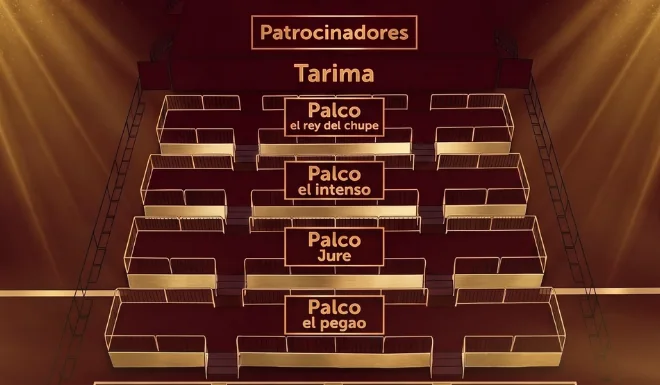
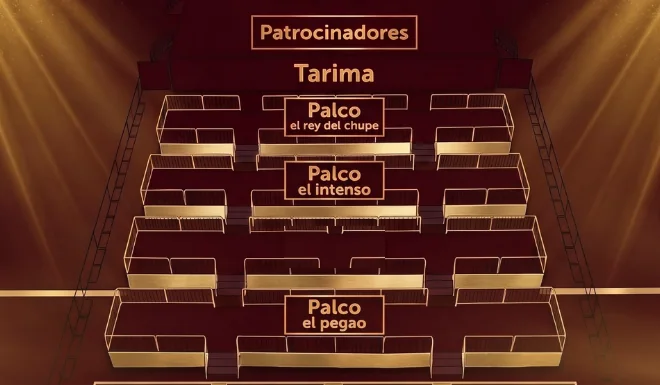
Landing Rasca: intro fluida (video nativo; el fuego toma un solo cuadro) y fuera Jure de planos, mapa y textos
Claude-Session: https://claude.ai/code/session_019Nk8Tj4AdvadvNBYBnkwa6

Changed region(s): [[0.4242, 0.561, 0.6061, 0.7169]]

diff --git a/index.html b/index.html
@@ -161,8 +161,6 @@ section{position:relative}
 .plano .tarima{fill:rgba(244,239,230,.55)}
 .plano .publico{fill:rgba(244,239,230,.08)}
 .plano .tramo{fill:none;stroke:rgba(244,239,230,.28);stroke-width:1}
-.plano .jure{stroke-dasharray:2 2}
-.plano .jure-t{font-size:5.2px;fill:rgba(244,239,230,.6);letter-spacing:.1em}
 .plano .activa{fill:var(--oro);stroke:none}
 .plano text{font:800 7px "Archivo",sans-serif;fill:rgba(26,11,11,.9);letter-spacing:.06em}
 .palco__nombre{margin-top:12px;font-size:var(--t2)}
@@ -448,15 +446,15 @@ dialog video{width:100%;height:100%;object-fit:contain}
     <p class="palcos__leyenda" id="leyenda-pabellon">Ilustración del montaje proyectado para el 5 de diciembre.</p>
     <div class="cabeza"><svg class="rombos" aria-hidden="true"><use href="#rombos"/></svg><p class="rol">Palco cubierto · 10 sillas</p><h2 class="rotulo" id="t-palcos">Frente a la tarima.</h2><p class="bajada"><b>Diez sillas para tu grupo</b>, bajo techo y de frente al show. Licor y comida se compran adentro y se pagan aparte.</p><p class="palcos__faltan">24 palcos por categoría · faltan <b id="faltan">57</b> días</p></div>
     <figure class="marco mapa">
-      <a class="mapa__zoom" href="assets/mapa-palcos-660.webp" target="_blank" rel="noopener" aria-label="Ver el mapa de localidades en grande"><picture><source type="image/avif" srcset="assets/mapa-palcos-660.avif"><img src="assets/mapa-palcos-660.webp" width="660" height="385" alt="Mapa oficial de localidades: la tarima y, de frente, los palcos El Rey del Chupe, El Intenso, Jure y El Pegao." loading="lazy"></picture></a>
-      <figcaption>Mapa oficial · toca para ampliar.<br>El palco Jure no está a la venta.</figcaption>
+      <a class="mapa__zoom" href="assets/mapa-palcos-660.webp" target="_blank" rel="noopener" aria-label="Ver el mapa de localidades en grande"><picture><source type="image/avif" srcset="assets/mapa-palcos-660.avif"><img src="assets/mapa-palcos-660.webp" width="660" height="385" alt="Mapa oficial de localidades: la tarima y, de frente, las filas de palcos El Rey del Chupe, El Intenso y El Pegao." loading="lazy"></picture></a>
+      <figcaption>Mapa oficial · toca para ampliar.</figcaption>
     </figure>
     <div class="palcos__lista">
       <article class="palco marco palco--rey" data-fila="1" aria-labelledby="p-reyDelChupe"><span class="palco__rombo" aria-hidden="true"><svg viewBox="0 0 132 12"><use href="#rombos"/></svg></span><span class="palco__abajo" aria-hidden="true"></span>
         <p class="palco__fila">Fila 1 de 4</p>
         <h3 class="rotulo palco__nombre" id="p-reyDelChupe">El Rey del Chupe</h3>
         <p class="palco__cerca">La primera fila desde la tarima.</p>
-        <div class="palco__plano"><svg class="plano" viewBox="0 0 120 96" role="img" aria-label="Plano: El Rey del Chupe está en la fila 1 de 4 desde la tarima."><rect class="tarima" x="10" y="2" width="100" height="8" rx="1"/><text x="60" y="8.4" text-anchor="middle">TARIMA</text><rect class="tramo activa" x="22.0" y="22" width="22.7" height="10" rx="1"/><rect class="tramo activa" x="48.7" y="22" width="22.7" height="10" rx="1"/><rect class="tramo activa" x="75.3" y="22" width="22.7" height="10" rx="1"/><rect class="tramo" x="18.0" y="38" width="25.3" height="10" rx="1"/><rect class="tramo" x="47.3" y="38" width="25.3" height="10" rx="1"/><rect class="tramo" x="76.7" y="38" width="25.3" height="10" rx="1"/><rect class="tramo jure" x="14" y="54" width="92" height="10" rx="1"/><text class="jure-t" x="60" y="61" text-anchor="middle">JURE · NO SE VENDE</text><rect class="tramo" x="10.0" y="70" width="30.7" height="10" rx="1"/><rect class="tramo" x="44.7" y="70" width="30.7" height="10" rx="1"/><rect class="tramo" x="79.3" y="70" width="30.7" height="10" rx="1"/><rect class="publico" x="6" y="86" width="108" height="8" rx="1"/></svg></div>
+        <div class="palco__plano"><svg class="plano" viewBox="0 0 120 96" role="img" aria-label="Plano: El Rey del Chupe está en la fila 1 de 4 desde la tarima."><rect class="tarima" x="10" y="2" width="100" height="8" rx="1"/><text x="60" y="8.4" text-anchor="middle">TARIMA</text><rect class="tramo activa" x="22.0" y="22" width="22.7" height="10" rx="1"/><rect class="tramo activa" x="48.7" y="22" width="22.7" height="10" rx="1"/><rect class="tramo activa" x="75.3" y="22" width="22.7" height="10" rx="1"/><rect class="tramo" x="18.0" y="38" width="25.3" height="10" rx="1"/><rect class="tramo" x="47.3" y="38" width="25.3" height="10" rx="1"/><rect class="tramo" x="76.7" y="38" width="25.3" height="10" rx="1"/><rect class="tramo" x="14.0" y="54" width="28.0" height="10" rx="1"/><rect class="tramo" x="46.0" y="54" width="28.0" height="10" rx="1"/><rect class="tramo" x="78.0" y="54" width="28.0" height="10" rx="1"/><rect class="tramo" x="10.0" y="70" width="30.7" height="10" rx="1"/><rect class="tramo" x="44.7" y="70" width="30.7" height="10" rx="1"/><rect class="tramo" x="79.3" y="70" width="30.7" height="10" rx="1"/><rect class="publico" x="6" y="86" width="108" height="8" rx="1"/></svg></div>
         <p class="palco__precio"><span class="precio" data-precio="reyDelChupe"></span><small>por palco · 10 sillas</small></p>
         <p class="palco__anticipo">Lo <span data-anticipo="reyDelChupe"></span> (30%)</p>
         <p class="palco__persona">≈ <span data-persona="reyDelChupe"></span> por persona</p>
@@ -467,7 +465,7 @@ dialog video{width:100%;height:100%;object-fit:contain}
         <p class="palco__fila">Fila 2 de 4</p>
         <h3 class="rotulo palco__nombre" id="p-elIntenso">El Intenso</h3>
         <p class="palco__cerca">Segunda fila, justo detrás de El Rey del Chupe.</p>
-        <div class="palco__plano"><svg class="plano" viewBox="0 0 120 96" role="img" aria-label="Plano: El Intenso está en la fila 2 de 4 desde la tarima."><rect class="tarima" x="10" y="2" width="100" height="8" rx="1"/><text x="60" y="8.4" text-anchor="middle">TARIMA</text><rect class="tramo" x="22.0" y="22" width="22.7" height="10" rx="1"/><rect class="tramo" x="48.7" y="22" width="22.7" height="10" rx="1"/><rect class="tramo" x="75.3" y="22" width="22.7" height="10" rx="1"/><rect class="tramo activa" x="18.0" y="38" width="25.3" height="10" rx="1"/><rect class="tramo activa" x="47.3" y="38" width="25.3" height="10" rx="1"/><rect class="tramo activa" x="76.7" y="38" width="25.3" height="10" rx="1"/><rect class="tramo jure" x="14" y="54" width="92" height="10" rx="1"/><text class="jure-t" x="60" y="61" text-anchor="middle">JURE · NO SE VENDE</text><rect class="tramo" x="10.0" y="70" width="30.7" height="10" rx="1"/><rect class="tramo" x="44.7" y="70" width="30.7" height="10" rx="1"/><rect class="tramo" x="79.3" y="70" width="30.7" height="10" rx="1"/><rect class="publico" x="6" y="86" width="108" height="8" rx="1"/></svg></div>
+        <div class="palco__plano"><svg class="plano" viewBox="0 0 120 96" role="img" aria-label="Plano: El Intenso está en la fila 2 de 4 desde la tarima."><rect class="tarima" x="10" y="2" width="100" height="8" rx="1"/><text x="60" y="8.4" text-anchor="middle">TARIMA</text><rect class="tramo" x="22.0" y="22" width="22.7" height="10" rx="1"/><rect class="tramo" x="48.7" y="22" width="22.7" height="10" rx="1"/><rect class="tramo" x="75.3" y="22" width="22.7" height="10" rx="1"/><rect class="tramo activa" x="18.0" y="38" width="25.3" height="10" rx="1"/><rect class="tramo activa" x="47.3" y="38" width="25.3" height="10" rx="1"/><rect class="tramo activa" x="76.7" y="38" width="25.3" height="10" rx="1"/><rect class="tramo" x="14.0" y="54" width="28.0" height="10" rx="1"/><rect class="tramo" x="46.0" y="54" width="28.0" height="10" rx="1"/><rect class="tramo" x="78.0" y="54" width="28.0" height="10" rx="1"/><rect class="tramo" x="10.0" y="70" width="30.7" height="10" rx="1"/><rect class="tramo" x="44.7" y="70" width="30.7" height="10" rx="1"/><rect class="tramo" x="79.3" y="70" width="30.7" height="10" rx="1"/><rect class="publico" x="6" y="86" width="108" height="8" rx="1"/></svg></div>
         <p class="palco__precio"><span class="precio" data-precio="elIntenso"></span><small>por palco · 10 sillas</small></p>
         <p class="palco__anticipo">Lo <span data-anticipo="elIntenso"></span> (30%)</p>
         <p class="palco__persona">≈ <span data-persona="elIntenso"></span> por persona</p>
@@ -477,8 +475,8 @@ dialog video{width:100%;height:100%;object-fit:contain}
       <article class="palco marco" data-fila="4" aria-labelledby="p-elPegao">
         <p class="palco__fila">Fila 4 de 4</p>
         <h3 class="rotulo palco__nombre" id="p-elPegao">El Pegao</h3>
-        <p class="palco__cerca">El de menor precio, detrás del Jure.</p>
-        <div class="palco__plano"><svg class="plano" viewBox="0 0 120 96" role="img" aria-label="Plano: El Pegao está en la fila 4 de 4 desde la tarima."><rect class="tarima" x="10" y="2" width="100" height="8" rx="1"/><text x="60" y="8.4" text-anchor="middle">TARIMA</text><rect class="tramo" x="22.0" y="22" width="22.7" height="10" rx="1"/><rect class="tramo" x="48.7" y="22" width="22.7" height="10" rx="1"/><rect class="tramo" x="75.3" y="22" width="22.7" height="10" rx="1"/><rect class="tramo" x="18.0" y="38" width="25.3" height="10" rx="1"/><rect class="tramo" x="47.3" y="38" width="25.3" height="10" rx="1"/><rect class="tramo" x="76.7" y="38" width="25.3" height="10" rx="1"/><rect class="tramo jure" x="14" y="54" width="92" height="10" rx="1"/><text class="jure-t" x="60" y="61" text-anchor="middle">JURE · NO SE VENDE</text><rect class="tramo activa" x="10.0" y="70" width="30.7" height="10" rx="1"/><rect class="tramo activa" x="44.7" y="70" width="30.7" height="10" rx="1"/><rect class="tramo activa" x="79.3" y="70" width="30.7" height="10" rx="1"/><rect class="publico" x="6" y="86" width="108" height="8" rx="1"/></svg></div>
+        <p class="palco__cerca">El de menor precio, en la cuarta fila.</p>
+        <div class="palco__plano"><svg class="plano" viewBox="0 0 120 96" role="img" aria-label="Plano: El Pegao está en la fila 4 de 4 desde la tarima."><rect class="tarima" x="10" y="2" width="100" height="8" rx="1"/><text x="60" y="8.4" text-anchor="middle">TARIMA</text><rect class="tramo" x="22.0" y="22" width="22.7" height="10" rx="1"/><rect class="tramo" x="48.7" y="22" width="22.7" height="10" rx="1"/><rect class="tramo" x="75.3" y="22" width="22.7" height="10" rx="1"/><rect class="tramo" x="18.0" y="38" width="25.3" height="10" rx="1"/><rect class="tramo" x="47.3" y="38" width="25.3" height="10" rx="1"/><rect class="tramo" x="76.7" y="38" width="25.3" height="10" rx="1"/><rect class="tramo" x="14.0" y="54" width="28.0" height="10" rx="1"/><rect class="tramo" x="46.0" y="54" width="28.0" height="10" rx="1"/><rect class="tramo" x="78.0" y="54" width="28.0" height="10" rx="1"/><rect class="tramo activa" x="10.0" y="70" width="30.7" height="10" rx="1"/><rect class="tramo activa" x="44.7" y="70" width="30.7" height="10" rx="1"/><rect class="tramo activa" x="79.3" y="70" width="30.7" height="10" rx="1"/><rect class="publico" x="6" y="86" width="108" height="8" rx="1"/></svg></div>
         <p class="palco__precio"><span class="precio" data-precio="elPegao"></span><small>por palco · 10 sillas</small></p>
         <p class="palco__anticipo">Lo <span data-anticipo="elPegao"></span> (30%)</p>
         <p class="palco__persona">≈ <span data-persona="elPegao"></span> por persona</p>
@@ -840,28 +838,35 @@ listo(function(){
     gl.viewport(0, 0, cv.width, cv.height);
   }
   tam(); addEventListener("resize", tam);
-  var inicio = performance.now(), t0 = 0, VER = 2800, QUEMA = 1600;
+  var inicio = performance.now(), t0 = 0, VER = 2800, QUEMA = 1300;
   function fuente(){
     if (vid && vid.readyState >= 2 && vid.videoWidth && !vid.paused && vid.currentTime > .05) return [vid, vid.videoWidth, vid.videoHeight];
     if (pos && pos.complete && pos.naturalWidth) return [pos, pos.naturalWidth, pos.naturalHeight];
     return null;
   }
+  var tomado = null;
+  function corre(){ return vid && !vid.paused && vid.readyState >= 2 && vid.currentTime > .05; }
   function cuadro(ahora){
     if (listoYa) return;
-    var f = fuente();
-    if (!f){ if (ahora - inicio > 1500){ fin(); return; } requestAnimationFrame(cuadro); return; }
     if (!t0) t0 = ahora;
     var ms = ahora - t0;
-    var x = Math.max(0, Math.min(1, (ms - VER) / QUEMA));
-    var a = ms < VER ? 0 : 1 - Math.pow(1 - x, 2);
-    if (f){
-      try { gl.texImage2D(gl.TEXTURE_2D, 0, gl.RGB, gl.RGB, gl.UNSIGNED_BYTE, f[0]); } catch(e){}
-      gl.clearColor(0, 0, 0, 0); gl.clear(gl.COLOR_BUFFER_BIT);
-      gl.uniform2f(U.r, cv.width, cv.height); gl.uniform2f(U.ta, f[1], f[2]);
-      gl.uniform1f(U.t, ms / 1000); gl.uniform1f(U.a, a); gl.uniform1i(U.tx, 0);
-      gl.drawArrays(gl.TRIANGLE_STRIP, 0, 4);
-      if (!caja.dataset.pinto){ caja.dataset.pinto = "1"; caja.style.background = "transparent"; }
+    if (!tomado && ms < VER){
+      if (!corre() && ms > 1200) VER = ms;
+      else { requestAnimationFrame(cuadro); return; }
     }
+    if (!tomado){
+      var f = corre() && vid.videoWidth ? [vid, vid.videoWidth, vid.videoHeight] : (pos && pos.complete && pos.naturalWidth ? [pos, pos.naturalWidth, pos.naturalHeight] : null);
+      if (!f){ if (ms > 2500){ fin(); return; } requestAnimationFrame(cuadro); return; }
+      try { gl.texImage2D(gl.TEXTURE_2D, 0, gl.RGB, gl.RGB, gl.UNSIGNED_BYTE, f[0]); } catch(e){ fin(); return; }
+      tomado = f; caja.style.background = "transparent";
+      try { vid.pause(); vid.style.visibility = "hidden"; } catch(e){}
+    }
+    var x = Math.max(0, Math.min(1, (ms - VER) / QUEMA));
+    var a = 1 - Math.pow(1 - x, 2);
+    gl.clearColor(0, 0, 0, 0); gl.clear(gl.COLOR_BUFFER_BIT);
+    gl.uniform2f(U.r, cv.width, cv.height); gl.uniform2f(U.ta, tomado[1], tomado[2]);
+    gl.uniform1f(U.t, ms / 1000); gl.uniform1f(U.a, a); gl.uniform1i(U.tx, 0);
+    gl.drawArrays(gl.TRIANGLE_STRIP, 0, 4);
     if (ms > VER + QUEMA + 150){ fin(); return; }
     requestAnimationFrame(cuadro);
   }
